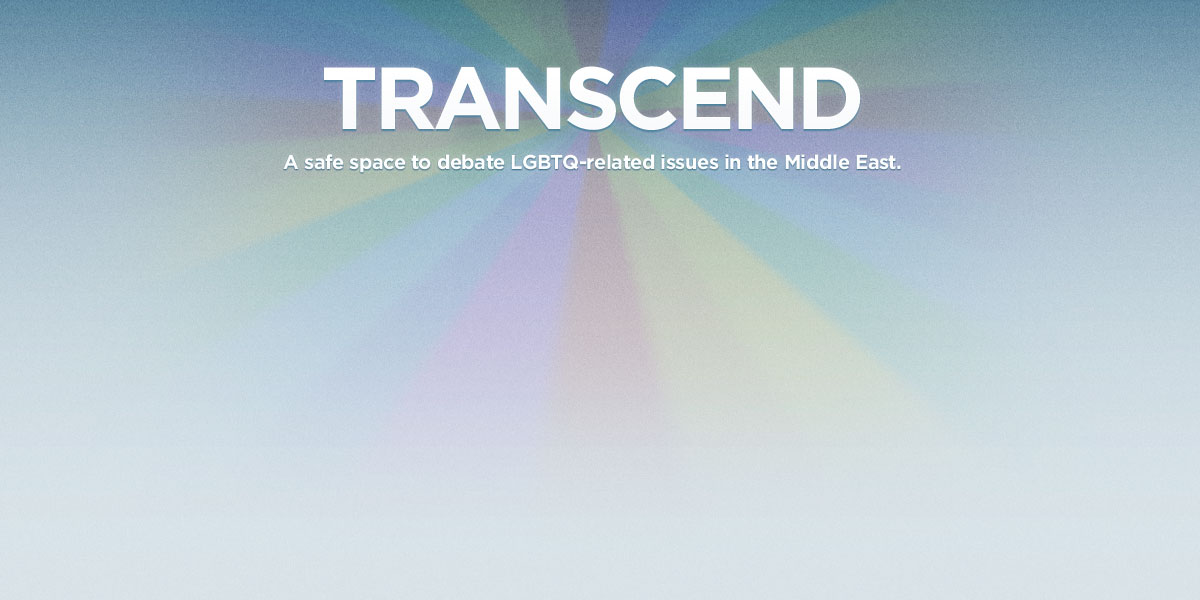
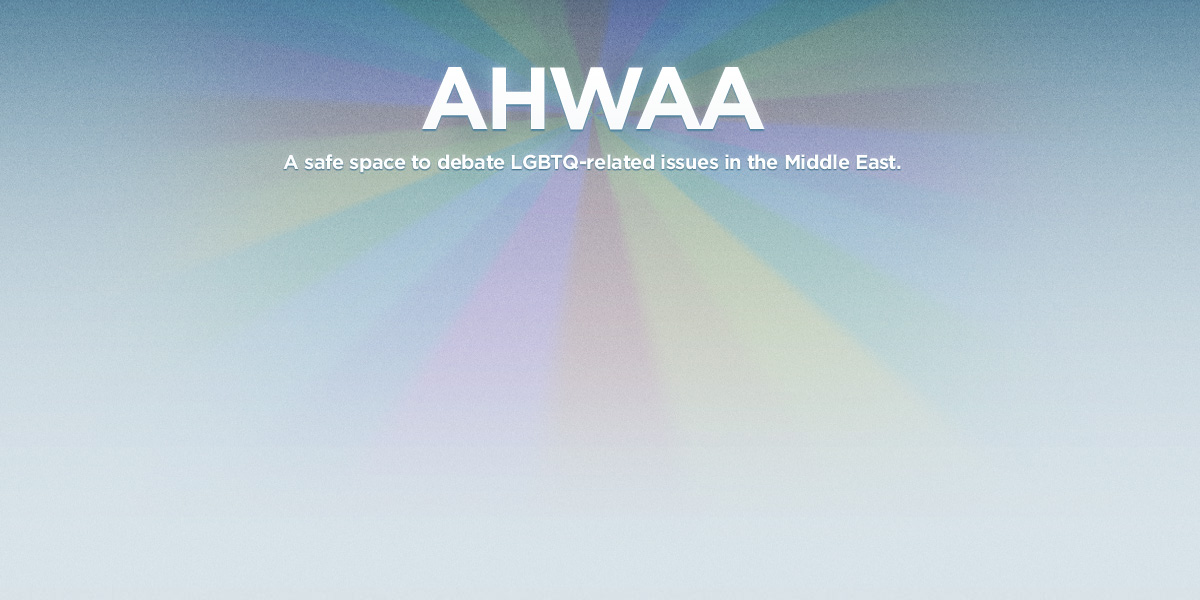
changing the page name and creating the 404 page

Changed region(s): [[0.2467, 0.09, 0.74, 0.24]]

diff --git a/public/stylesheets/style.css b/public/stylesheets/style.css
@@ -44,7 +44,7 @@ input:focus:invalid, #twitter textarea:focus:invalid{border: 1px solid #e79090;}
 .placeholder{color:#bbb}
 .header-wrapper{background-color: #ffffff; border-top: 1px solid #e0e9ee; height: 39px;}
 .header-top{height: 37px; text-align: center; padding: 10px 0; position: relative; margin-top: -1px}
-.topic{background: url('../images/transcend.png') no-repeat center 0;}
+.topic{background: url('../images/ahwaa.png') no-repeat center 0;}
 .homepage{background: url('../images/homepage.png') no-repeat center 0;}
 .clear{clear:both!important; float:none!important;}
 .links{width: 237px; height: 54px; left: 361px; position: absolute; top: 0;  text-align: center;}

diff --git a/public/stylesheets/404.css b/public/stylesheets/404.css
@@ -1,0 +1,26 @@
+body {                               
+  padding: 0;
+  margin: 0;                                                      
+  background: #E3ECF0 url('../images/bg-gradient.jpg') repeat-x 0 0;
+}
+
+body > div{
+  height: 633px;
+  background: url('../images/error-404-bg.png') no-repeat 50% 0;
+  position: relative;
+}
+
+body > div > p{
+  font-family: Arial;
+  font-size: 13px;
+  color: #5d646a;  
+  text-align: center;
+  position: absolute;
+  bottom: 3px; 
+  width: 100%;
+  line-height: 20px;
+}
+
+body > div > p > a{
+  color: #468ac4;
+}

diff --git a/public/404.en.html b/public/404.en.html
@@ -1,0 +1,12 @@
+<!DOCTYPE html>
+<html>
+<head>
+  <title>The page you were looking for doesn't exist (404)</title>
+  <link href="/stylesheets/404.css" media="screen" rel="stylesheet" type="text/css">
+</head>
+<body>
+  <div>
+      <p>Looks like you followed a bad link or something went wrong.<br>Hope back to the <a href="#">Homepage</a> and if it happens again, <a href="#">let us know.</a></p>
+  </div>
+</body>
+</html>

diff --git a/public/404.ar.html b/public/404.ar.html
@@ -1,0 +1,12 @@
+<!DOCTYPE html>
+<html>
+<head>
+  <title>Arabe - The page you were looking for doesn't exist (404)</title>
+</head>
+
+<body>
+  <div>
+      <p>Looks like you followed a bad link or something went wrong.<br>Hope back to the <a href="#">Homepage</a> and if it happens again, <a href="#">let us know.</a></p>
+  </div>
+</body>
+</html>
